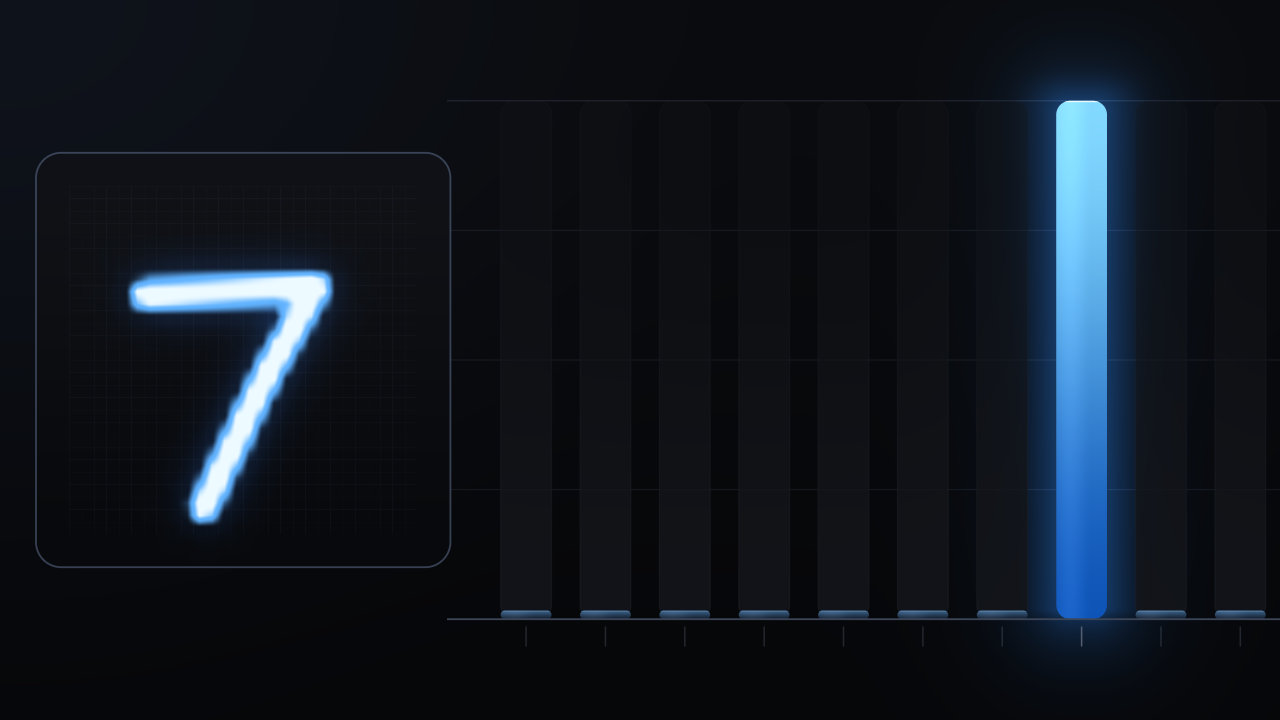
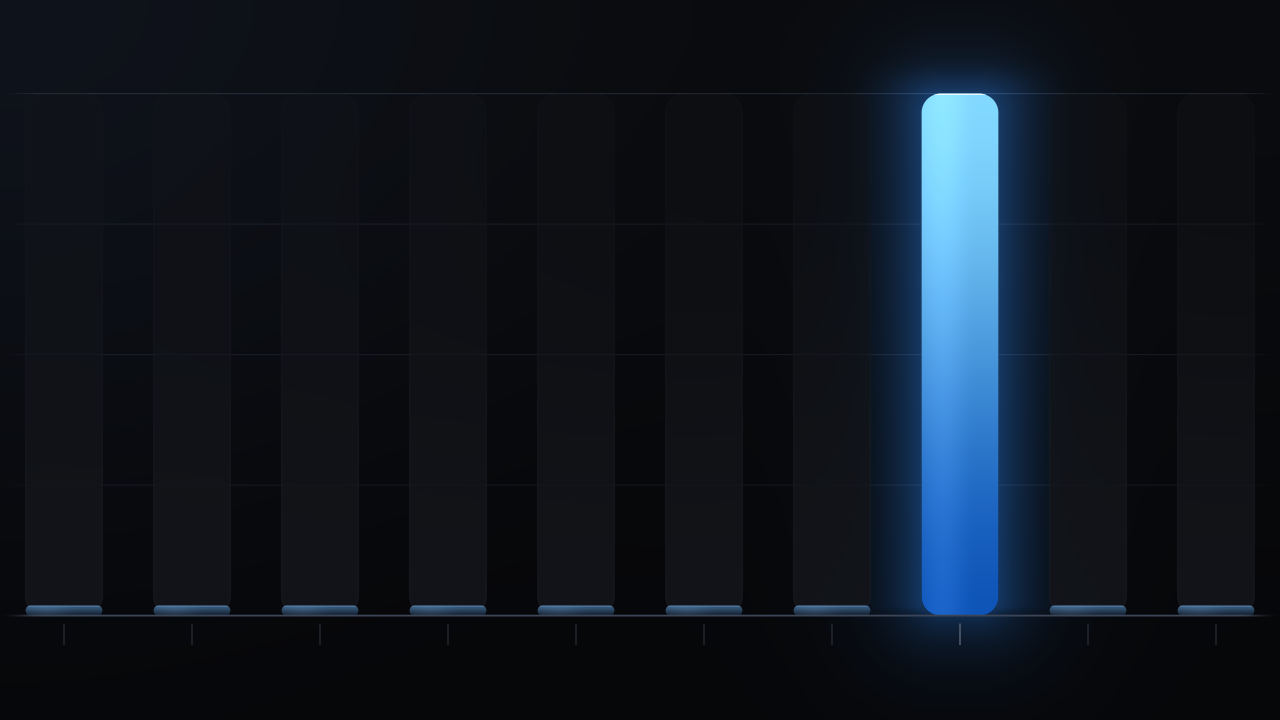
feat(docs): drop the MNIST input preview and widen the chart
The 28x28 preview showed the same digit the drawing surface next to it
already shows, so the visualization is now the probability chart alone.
Class `i` owns the column `[i, i + 1) / 10` of the canvas, which means the
static DOM labels align with a plain ten-column grid instead of mirroring a
layout fraction, and the bars get roughly 60 % more width to breathe. The
rules and the axis run full-bleed and fade out near the canvas edges.

Binding 2 keeps the normalized input bound because `createVisualizer()`
owns that slot; the chart simply no longer samples it.

diff --git a/apps/docs/lib/examples-source.generated.ts b/apps/docs/lib/examples-source.generated.ts
@@ -803,7 +803,7 @@ export const exampleSources = {
       {
         "path": "index.tsx",
         "language": "tsx",
-        "content": "'use client';\n\nimport { useCallback, useEffect, useRef, useState } from 'react';\nimport { useExampleErrorReporter } from '../../lib/example-error-reporter';\nimport { FIXTURE_STROKES, FIXTURE_SURFACE, STROKE_RADIUS } from './fixtures';\nimport { foregroundFromRgba, preprocessDigit } from './preprocess';\nimport { createRenderer, type MnistRenderer, type MnistStatus } from './ort-runtime';\n\nconst STAGE_LABELS: Record<string, string> = {\n  runtime: 'Loading ONNX Runtime Web…',\n  model: 'Fetching the 26 kB model…',\n  session: 'Creating the WebGPU session…',\n  device: 'Adopting the runtime device…',\n  ready: 'Ready',\n};\n\n/** Coalescing delay while the pointer is still down. */\nconst DRAW_DEBOUNCE_MS = 120;\n\nexport function Example() {\n  const reportError = useExampleErrorReporter();\n  const barsCanvasRef = useRef<HTMLCanvasElement>(null);\n  const drawCanvasRef = useRef<HTMLCanvasElement>(null);\n  const rendererRef = useRef<MnistRenderer | undefined>(undefined);\n  const debounceRef = useRef<number>(0);\n  const drawingRef = useRef(false);\n  const lastPointRef = useRef<{ x: number; y: number } | undefined>(undefined);\n  const [status, setStatus] = useState<MnistStatus>({ phase: 'initializing' });\n\n  const context = () => {\n    const canvas = drawCanvasRef.current;\n    return canvas?.getContext('2d', { willReadFrequently: true }) ?? undefined;\n  };\n\n  const paintBackground = useCallback((ctx: CanvasRenderingContext2D) => {\n    ctx.fillStyle = '#000000';\n    ctx.fillRect(0, 0, FIXTURE_SURFACE, FIXTURE_SURFACE);\n    ctx.strokeStyle = '#ffffff';\n    ctx.lineWidth = STROKE_RADIUS * 2;\n    ctx.lineCap = 'round';\n    ctx.lineJoin = 'round';\n  }, []);\n\n  /** Reads the drawing surface and queues one inference. */\n  const submit = useCallback(() => {\n    const ctx = context();\n    const renderer = rendererRef.current;\n    if (!ctx || !renderer) return;\n    const image = ctx.getImageData(0, 0, FIXTURE_SURFACE, FIXTURE_SURFACE);\n    const field = foregroundFromRgba(image.data, FIXTURE_SURFACE, FIXTURE_SURFACE);\n    const pixels = preprocessDigit(field, FIXTURE_SURFACE, FIXTURE_SURFACE);\n    if (!pixels) renderer.clear();\n    else renderer.classify(pixels);\n  }, []);\n\n  const scheduleSubmit = useCallback(() => {\n    if (debounceRef.current) return;\n    debounceRef.current = window.setTimeout(() => {\n      debounceRef.current = 0;\n      submit();\n    }, DRAW_DEBOUNCE_MS);\n  }, [submit]);\n\n  useEffect(() => {\n    const canvas = barsCanvasRef.current;\n    const ctx = context();\n    if (!canvas || !ctx) return;\n\n    paintBackground(ctx);\n    // Seed a stroke so the example shows a real result without interaction.\n    ctx.beginPath();\n    for (const stroke of FIXTURE_STROKES) {\n      stroke.forEach(([x, y], index) => (index === 0 ? ctx.moveTo(x, y) : ctx.lineTo(x, y)));\n    }\n    ctx.stroke();\n\n    const renderer = createRenderer({\n      canvas,\n      onError: reportError,\n      onStatus: (next) => {\n        setStatus(next);\n        if (next.phase === 'ready' && next.runs === 0) submit();\n      },\n    });\n    rendererRef.current = renderer;\n    void renderer.ready.catch(() => {\n      // onError reports initialization failures to the preview host.\n    });\n\n    return () => {\n      if (debounceRef.current) window.clearTimeout(debounceRef.current);\n      debounceRef.current = 0;\n      rendererRef.current = undefined;\n      renderer.dispose();\n    };\n  }, [paintBackground, reportError, submit]);\n\n  const pointerPosition = (event: React.PointerEvent<HTMLCanvasElement>) => {\n    const canvas = event.currentTarget;\n    const rect = canvas.getBoundingClientRect();\n    return {\n      x: ((event.clientX - rect.left) / rect.width) * FIXTURE_SURFACE,\n      y: ((event.clientY - rect.top) / rect.height) * FIXTURE_SURFACE,\n    };\n  };\n\n  const onPointerDown = (event: React.PointerEvent<HTMLCanvasElement>) => {\n    const ctx = context();\n    if (!ctx) return;\n    event.currentTarget.setPointerCapture(event.pointerId);\n    drawingRef.current = true;\n    const point = pointerPosition(event);\n    lastPointRef.current = point;\n    // A dot is a valid digit stroke, so draw immediately.\n    ctx.beginPath();\n    ctx.moveTo(point.x, point.y);\n    ctx.lineTo(point.x + 0.01, point.y);\n    ctx.stroke();\n    scheduleSubmit();\n  };\n\n  const onPointerMove = (event: React.PointerEvent<HTMLCanvasElement>) => {\n    if (!drawingRef.current) return;\n    const ctx = context();\n    const previous = lastPointRef.current;\n    if (!ctx || !previous) return;\n    const point = pointerPosition(event);\n    ctx.beginPath();\n    ctx.moveTo(previous.x, previous.y);\n    ctx.lineTo(point.x, point.y);\n    ctx.stroke();\n    lastPointRef.current = point;\n    scheduleSubmit();\n  };\n\n  const endStroke = () => {\n    if (!drawingRef.current) return;\n    drawingRef.current = false;\n    lastPointRef.current = undefined;\n    if (debounceRef.current) window.clearTimeout(debounceRef.current);\n    debounceRef.current = 0;\n    // The final stroke always wins.\n    submit();\n  };\n\n  const clear = () => {\n    const ctx = context();\n    if (ctx) paintBackground(ctx);\n    if (debounceRef.current) window.clearTimeout(debounceRef.current);\n    debounceRef.current = 0;\n    rendererRef.current?.clear();\n  };\n\n  const initializing = status.phase === 'initializing';\n  const blocked = status.phase === 'unsupported' || status.phase === 'error';\n\n  return (\n    <div className=\"flex h-full w-full flex-col gap-4 overflow-auto bg-[#08090c] p-4 text-white/90\">\n      <p className=\"max-w-3xl text-xs leading-relaxed text-white/55\">\n        Draw a digit and classify it with ONNX Runtime Web on WebGPU. vgpu adopts ORT&apos;s device and\n        renders the ten GPU-resident logits through a non-owning zero-copy buffer wrapper. The output\n        is only 40 bytes, so zero-copy is not a meaningful speedup here; this example demonstrates\n        the interop API and lifetime contract. Large or per-frame tensors are where eliminating\n        transfers becomes performance-relevant.\n      </p>\n\n      <div className=\"flex flex-wrap items-start gap-5\">\n        <div className=\"flex flex-col gap-2\">\n          <div className=\"flex items-baseline justify-between gap-3\">\n            <span className=\"font-mono text-[10px] uppercase tracking-[0.14em] text-white/35\">\n              draw\n            </span>\n            <span className=\"font-mono text-[10px] text-white/25\">280 × 280</span>\n          </div>\n          <canvas\n            ref={drawCanvasRef}\n            width={FIXTURE_SURFACE}\n            height={FIXTURE_SURFACE}\n            aria-label=\"Drawing surface for a handwritten digit\"\n            className=\"h-[280px] w-[280px] cursor-crosshair touch-none rounded-xl border border-white/10 bg-black shadow-[inset_0_1px_0_rgba(255,255,255,0.04)] transition-colors hover:border-white/20\"\n            onPointerDown={onPointerDown}\n            onPointerMove={onPointerMove}\n            onPointerUp={endStroke}\n            onPointerCancel={endStroke}\n            onPointerLeave={endStroke}\n          />\n          <button\n            type=\"button\"\n            onClick={clear}\n            className=\"self-start rounded-md border border-white/10 bg-white/[0.03] px-3 py-1 font-mono text-[11px] text-white/60 transition-colors hover:border-white/25 hover:bg-white/10 hover:text-white/90\"\n          >\n            clear\n          </button>\n        </div>\n\n        <div className=\"relative min-w-[320px] flex-1\">\n          <div className=\"mb-2 flex items-baseline justify-between gap-3\">\n            <span className=\"font-mono text-[10px] uppercase tracking-[0.14em] text-white/35\">\n              model input 28 × 28\n            </span>\n            <span className=\"font-mono text-[10px] uppercase tracking-[0.14em] text-white/35\">\n              softmax(logits) · probability\n            </span>\n          </div>\n          <canvas\n            ref={barsCanvasRef}\n            aria-label=\"Class probabilities rendered from the model's GPU-resident logits\"\n            className=\"block h-[280px] w-full rounded-xl border border-white/10\"\n          />\n          {/* Static labels: reading the winning class from the GPU would require a\n              readback, which this example deliberately avoids. The 38% padding\n              mirrors `SPLIT` in visualize.wgsl, so each digit sits under its bar. */}\n          <div className=\"grid grid-cols-10 pl-[38%] pt-1 text-center font-mono text-[11px] tabular-nums text-white/40\">\n            {Array.from({ length: 10 }, (_, digit) => (\n              <span key={digit}>{digit}</span>\n            ))}\n          </div>\n\n          {initializing && (\n            <div className=\"pointer-events-none absolute inset-0 flex items-center justify-center\">\n              <p className=\"rounded-lg border border-white/10 bg-black/70 px-3 py-2 font-mono text-xs text-white/70 backdrop-blur-sm\">\n                {(status.detail && STAGE_LABELS[status.detail]) ?? 'Preparing inference…'}\n              </p>\n            </div>\n          )}\n\n          {blocked && (\n            <div className=\"absolute inset-0 flex items-center justify-center p-4\">\n              <div className=\"max-w-md rounded-lg border border-white/10 bg-black/85 p-3 text-sm backdrop-blur-sm\">\n                <h2 className=\"mb-1 font-medium\">\n                  {status.phase === 'unsupported' ? 'WebGPU inference is required' : 'Inference failed'}\n                </h2>\n                <p className=\"mb-2 text-white/70\">\n                  This example runs ONNX Runtime Web on the WebGPU execution provider so vgpu can\n                  share its device. It does not fall back to CPU inference.\n                </p>\n                {status.detail && <p className=\"font-mono text-xs text-white/60\">{status.detail}</p>}\n              </div>\n            </div>\n          )}\n        </div>\n      </div>\n\n      <p className=\"flex flex-wrap items-center gap-x-2 gap-y-1 font-mono text-[11px] text-white/35\">\n        <span\n          aria-hidden\n          className={`inline-block h-1.5 w-1.5 rounded-full ${\n            status.phase === 'classifying'\n              ? 'bg-[#3b9eff] shadow-[0_0_6px_rgba(59,158,255,0.9)]'\n              : status.phase === 'ready'\n                ? 'bg-[#46a758]'\n                : 'bg-white/25'\n          }`}\n        />\n        <span className=\"text-white/55\">\n          {status.phase === 'classifying' ? 'running inference…' : `inferences: ${status.runs ?? 0}`}\n        </span>\n        <span className=\"text-white/20\">·</span>\n        <span>40 bytes of logits, softmax in WGSL, no readback</span>\n      </p>\n    </div>\n  );\n}\n"
+        "content": "'use client';\n\nimport { useCallback, useEffect, useRef, useState } from 'react';\nimport { useExampleErrorReporter } from '../../lib/example-error-reporter';\nimport { FIXTURE_STROKES, FIXTURE_SURFACE, STROKE_RADIUS } from './fixtures';\nimport { foregroundFromRgba, preprocessDigit } from './preprocess';\nimport { createRenderer, type MnistRenderer, type MnistStatus } from './ort-runtime';\n\nconst STAGE_LABELS: Record<string, string> = {\n  runtime: 'Loading ONNX Runtime Web…',\n  model: 'Fetching the 26 kB model…',\n  session: 'Creating the WebGPU session…',\n  device: 'Adopting the runtime device…',\n  ready: 'Ready',\n};\n\n/** Coalescing delay while the pointer is still down. */\nconst DRAW_DEBOUNCE_MS = 120;\n\nexport function Example() {\n  const reportError = useExampleErrorReporter();\n  const barsCanvasRef = useRef<HTMLCanvasElement>(null);\n  const drawCanvasRef = useRef<HTMLCanvasElement>(null);\n  const rendererRef = useRef<MnistRenderer | undefined>(undefined);\n  const debounceRef = useRef<number>(0);\n  const drawingRef = useRef(false);\n  const lastPointRef = useRef<{ x: number; y: number } | undefined>(undefined);\n  const [status, setStatus] = useState<MnistStatus>({ phase: 'initializing' });\n\n  const context = () => {\n    const canvas = drawCanvasRef.current;\n    return canvas?.getContext('2d', { willReadFrequently: true }) ?? undefined;\n  };\n\n  const paintBackground = useCallback((ctx: CanvasRenderingContext2D) => {\n    ctx.fillStyle = '#000000';\n    ctx.fillRect(0, 0, FIXTURE_SURFACE, FIXTURE_SURFACE);\n    ctx.strokeStyle = '#ffffff';\n    ctx.lineWidth = STROKE_RADIUS * 2;\n    ctx.lineCap = 'round';\n    ctx.lineJoin = 'round';\n  }, []);\n\n  /** Reads the drawing surface and queues one inference. */\n  const submit = useCallback(() => {\n    const ctx = context();\n    const renderer = rendererRef.current;\n    if (!ctx || !renderer) return;\n    const image = ctx.getImageData(0, 0, FIXTURE_SURFACE, FIXTURE_SURFACE);\n    const field = foregroundFromRgba(image.data, FIXTURE_SURFACE, FIXTURE_SURFACE);\n    const pixels = preprocessDigit(field, FIXTURE_SURFACE, FIXTURE_SURFACE);\n    if (!pixels) renderer.clear();\n    else renderer.classify(pixels);\n  }, []);\n\n  const scheduleSubmit = useCallback(() => {\n    if (debounceRef.current) return;\n    debounceRef.current = window.setTimeout(() => {\n      debounceRef.current = 0;\n      submit();\n    }, DRAW_DEBOUNCE_MS);\n  }, [submit]);\n\n  useEffect(() => {\n    const canvas = barsCanvasRef.current;\n    const ctx = context();\n    if (!canvas || !ctx) return;\n\n    paintBackground(ctx);\n    // Seed a stroke so the example shows a real result without interaction.\n    ctx.beginPath();\n    for (const stroke of FIXTURE_STROKES) {\n      stroke.forEach(([x, y], index) => (index === 0 ? ctx.moveTo(x, y) : ctx.lineTo(x, y)));\n    }\n    ctx.stroke();\n\n    const renderer = createRenderer({\n      canvas,\n      onError: reportError,\n      onStatus: (next) => {\n        setStatus(next);\n        if (next.phase === 'ready' && next.runs === 0) submit();\n      },\n    });\n    rendererRef.current = renderer;\n    void renderer.ready.catch(() => {\n      // onError reports initialization failures to the preview host.\n    });\n\n    return () => {\n      if (debounceRef.current) window.clearTimeout(debounceRef.current);\n      debounceRef.current = 0;\n      rendererRef.current = undefined;\n      renderer.dispose();\n    };\n  }, [paintBackground, reportError, submit]);\n\n  const pointerPosition = (event: React.PointerEvent<HTMLCanvasElement>) => {\n    const canvas = event.currentTarget;\n    const rect = canvas.getBoundingClientRect();\n    return {\n      x: ((event.clientX - rect.left) / rect.width) * FIXTURE_SURFACE,\n      y: ((event.clientY - rect.top) / rect.height) * FIXTURE_SURFACE,\n    };\n  };\n\n  const onPointerDown = (event: React.PointerEvent<HTMLCanvasElement>) => {\n    const ctx = context();\n    if (!ctx) return;\n    event.currentTarget.setPointerCapture(event.pointerId);\n    drawingRef.current = true;\n    const point = pointerPosition(event);\n    lastPointRef.current = point;\n    // A dot is a valid digit stroke, so draw immediately.\n    ctx.beginPath();\n    ctx.moveTo(point.x, point.y);\n    ctx.lineTo(point.x + 0.01, point.y);\n    ctx.stroke();\n    scheduleSubmit();\n  };\n\n  const onPointerMove = (event: React.PointerEvent<HTMLCanvasElement>) => {\n    if (!drawingRef.current) return;\n    const ctx = context();\n    const previous = lastPointRef.current;\n    if (!ctx || !previous) return;\n    const point = pointerPosition(event);\n    ctx.beginPath();\n    ctx.moveTo(previous.x, previous.y);\n    ctx.lineTo(point.x, point.y);\n    ctx.stroke();\n    lastPointRef.current = point;\n    scheduleSubmit();\n  };\n\n  const endStroke = () => {\n    if (!drawingRef.current) return;\n    drawingRef.current = false;\n    lastPointRef.current = undefined;\n    if (debounceRef.current) window.clearTimeout(debounceRef.current);\n    debounceRef.current = 0;\n    // The final stroke always wins.\n    submit();\n  };\n\n  const clear = () => {\n    const ctx = context();\n    if (ctx) paintBackground(ctx);\n    if (debounceRef.current) window.clearTimeout(debounceRef.current);\n    debounceRef.current = 0;\n    rendererRef.current?.clear();\n  };\n\n  const initializing = status.phase === 'initializing';\n  const blocked = status.phase === 'unsupported' || status.phase === 'error';\n\n  return (\n    <div className=\"flex h-full w-full flex-col gap-4 overflow-auto bg-[#08090c] p-4 text-white/90\">\n      <p className=\"max-w-3xl text-xs leading-relaxed text-white/55\">\n        Draw a digit and classify it with ONNX Runtime Web on WebGPU. vgpu adopts ORT&apos;s device and\n        renders the ten GPU-resident logits through a non-owning zero-copy buffer wrapper. The output\n        is only 40 bytes, so zero-copy is not a meaningful speedup here; this example demonstrates\n        the interop API and lifetime contract. Large or per-frame tensors are where eliminating\n        transfers becomes performance-relevant.\n      </p>\n\n      <div className=\"flex flex-wrap items-start gap-5\">\n        <div className=\"flex flex-col gap-2\">\n          <div className=\"flex items-baseline justify-between gap-3\">\n            <span className=\"font-mono text-[10px] uppercase tracking-[0.14em] text-white/35\">\n              draw\n            </span>\n            <span className=\"font-mono text-[10px] text-white/25\">280 × 280</span>\n          </div>\n          <canvas\n            ref={drawCanvasRef}\n            width={FIXTURE_SURFACE}\n            height={FIXTURE_SURFACE}\n            aria-label=\"Drawing surface for a handwritten digit\"\n            className=\"h-[280px] w-[280px] cursor-crosshair touch-none rounded-xl border border-white/10 bg-black shadow-[inset_0_1px_0_rgba(255,255,255,0.04)] transition-colors hover:border-white/20\"\n            onPointerDown={onPointerDown}\n            onPointerMove={onPointerMove}\n            onPointerUp={endStroke}\n            onPointerCancel={endStroke}\n            onPointerLeave={endStroke}\n          />\n          <button\n            type=\"button\"\n            onClick={clear}\n            className=\"self-start rounded-md border border-white/10 bg-white/[0.03] px-3 py-1 font-mono text-[11px] text-white/60 transition-colors hover:border-white/25 hover:bg-white/10 hover:text-white/90\"\n          >\n            clear\n          </button>\n        </div>\n\n        <div className=\"relative min-w-[360px] flex-1\">\n          <div className=\"flex items-baseline justify-between gap-3\">\n            <span className=\"font-mono text-[10px] uppercase tracking-[0.14em] text-white/35\">\n              probability\n            </span>\n            <span className=\"font-mono text-[10px] text-white/25\">softmax(logits)</span>\n          </div>\n          <canvas\n            ref={barsCanvasRef}\n            aria-label=\"Class probabilities rendered from the model's GPU-resident logits\"\n            className=\"mt-2 block h-[280px] w-full rounded-xl border border-white/10 bg-black shadow-[inset_0_1px_0_rgba(255,255,255,0.04)]\"\n          />\n          {/* Static labels: reading the winning class from the GPU would require a\n              readback, which this example deliberately avoids. The chart uses the\n              full canvas width, one tenth per class, so this ten-column grid puts\n              every digit under its own bar. */}\n          <div className=\"grid grid-cols-10 pt-1.5 text-center font-mono text-[11px] tabular-nums text-white/40\">\n            {Array.from({ length: 10 }, (_, digit) => (\n              <span key={digit}>{digit}</span>\n            ))}\n          </div>\n\n          {initializing && (\n            <div className=\"pointer-events-none absolute inset-0 flex items-center justify-center\">\n              <p className=\"rounded-lg border border-white/10 bg-black/70 px-3 py-2 font-mono text-xs text-white/70 backdrop-blur-sm\">\n                {(status.detail && STAGE_LABELS[status.detail]) ?? 'Preparing inference…'}\n              </p>\n            </div>\n          )}\n\n          {blocked && (\n            <div className=\"absolute inset-0 flex items-center justify-center p-4\">\n              <div className=\"max-w-md rounded-lg border border-white/10 bg-black/85 p-3 text-sm backdrop-blur-sm\">\n                <h2 className=\"mb-1 font-medium\">\n                  {status.phase === 'unsupported' ? 'WebGPU inference is required' : 'Inference failed'}\n                </h2>\n                <p className=\"mb-2 text-white/70\">\n                  This example runs ONNX Runtime Web on the WebGPU execution provider so vgpu can\n                  share its device. It does not fall back to CPU inference.\n                </p>\n                {status.detail && <p className=\"font-mono text-xs text-white/60\">{status.detail}</p>}\n              </div>\n            </div>\n          )}\n        </div>\n      </div>\n\n      <p className=\"flex flex-wrap items-center gap-x-2 gap-y-1 font-mono text-[11px] text-white/35\">\n        <span\n          aria-hidden\n          className={`inline-block h-1.5 w-1.5 rounded-full ${\n            status.phase === 'classifying'\n              ? 'bg-[#3b9eff] shadow-[0_0_6px_rgba(59,158,255,0.9)]'\n              : status.phase === 'ready'\n                ? 'bg-[#46a758]'\n                : 'bg-white/25'\n          }`}\n        />\n        <span className=\"text-white/55\">\n          {status.phase === 'classifying' ? 'running inference…' : `inferences: ${status.runs ?? 0}`}\n        </span>\n        <span className=\"text-white/20\">·</span>\n        <span>40 bytes of logits, softmax in WGSL, no readback</span>\n      </p>\n    </div>\n  );\n}\n"
       },
       {
         "path": "renderer.ts",
@@ -828,7 +828,7 @@ export const exampleSources = {
       {
         "path": "visualize.wgsl",
         "language": "wgsl",
-        "content": "// Reads the ten GPU-resident logits ONNX Runtime Web produced and draws the\n// class probabilities, plus a preview of the normalized 28x28 input.\n//\n// The softmax is computed here, so the 40 bytes of output are never copied or\n// read back to the CPU. Class labels are static DOM text next to the canvas.\n//\n// Everything is laid out in framebuffer pixels and antialiased with signed\n// distance fields, so rounded corners, hairlines and glows keep their shape at\n// any canvas aspect ratio. The only fraction of the *width* used for layout is\n// `SPLIT`, which the static DOM label row mirrors so the digits stay under the\n// bars.\nstruct Uniforms {\n  resolution: vec2f,\n  /// 1.0 once a real inference result is bound, 0.0 for the idle state.\n  has_result: f32,\n  /// Side length of the input preview in texels (28).\n  input_size: f32,\n};\n@group(0) @binding(0) var<uniform> uniforms: Uniforms;\n@group(0) @binding(1) var<storage, read> logits: array<f32>;\n@group(0) @binding(2) var<storage, read> digit: array<f32>;\n\nconst CLASSES: u32 = 10u;\n\n/// Where the probability chart starts, as a fraction of the width. The static\n/// DOM class labels are padded by the same fraction (`pl-[38%]`).\nconst SPLIT: f32 = 0.38;\n/// Chart band, as fractions of the height: 1.0 probability and the axis.\nconst CHART_TOP: f32 = 0.14;\nconst CHART_BASE: f32 = 0.86;\n/// Every class stays visible even at a probability of ~0, as a small nub.\nconst MIN_BAR: f32 = 0.012;\n\nconst BG_TOP: vec3f = vec3f(0.038, 0.043, 0.055);\nconst BG_BOTTOM: vec3f = vec3f(0.024, 0.027, 0.036);\nconst AMBIENT: vec3f = vec3f(0.018, 0.028, 0.048);\nconst TRACK: vec3f = vec3f(0.072, 0.080, 0.099);\nconst TRACK_EDGE: vec3f = vec3f(0.125, 0.140, 0.170);\nconst RULE: vec3f = vec3f(0.055, 0.065, 0.082);\nconst AXIS: vec3f = vec3f(0.235, 0.270, 0.340);\n/// Winning class: the docs' blue accent taken up to a bright cyan tip.\nconst WIN_LOW: vec3f = vec3f(0.055, 0.330, 0.720);\nconst WIN_HIGH: vec3f = vec3f(0.510, 0.850, 1.000);\nconst WIN_TIP: vec3f = vec3f(0.930, 0.980, 1.000);\nconst WIN_GLOW: vec3f = vec3f(0.120, 0.420, 0.780);\n/// Runner-ups: the same hue, desaturated so the argmax reads instantly.\nconst REST_LOW: vec3f = vec3f(0.085, 0.135, 0.200);\nconst REST_HIGH: vec3f = vec3f(0.220, 0.360, 0.500);\nconst REST_TIP: vec3f = vec3f(0.400, 0.560, 0.720);\n/// Input preview.\nconst PANEL_TOP: vec3f = vec3f(0.060, 0.068, 0.086);\nconst PANEL_BOTTOM: vec3f = vec3f(0.030, 0.035, 0.046);\nconst PANEL_FRAME: vec3f = vec3f(0.400, 0.470, 0.600);\nconst INK_HALO: vec3f = vec3f(0.100, 0.300, 0.620);\nconst INK_BODY: vec3f = vec3f(0.380, 0.700, 1.000);\nconst INK_CORE: vec3f = vec3f(0.930, 0.980, 1.000);\nconst GRID: vec3f = vec3f(0.020, 0.024, 0.032);\n\n/// Numerically stable softmax over the ten logits.\nfn probability(index: u32) -> f32 {\n  var maximum = logits[0];\n  for (var i = 1u; i < CLASSES; i = i + 1u) {\n    maximum = max(maximum, logits[i]);\n  }\n  var total = 0.0;\n  for (var i = 0u; i < CLASSES; i = i + 1u) {\n    total = total + exp(logits[i] - maximum);\n  }\n  return exp(logits[index] - maximum) / total;\n}\n\nfn best_class() -> u32 {\n  var best = 0u;\n  for (var i = 1u; i < CLASSES; i = i + 1u) {\n    if (logits[i] > logits[best]) { best = i; }\n  }\n  return best;\n}\n\n/// Signed distance to a rounded box, in the same units as `p`.\nfn sd_round_box(p: vec2f, half_size: vec2f, radius: f32) -> f32 {\n  let r = min(radius, min(half_size.x, half_size.y));\n  let q = abs(p) - half_size + vec2f(r);\n  return length(max(q, vec2f(0.0))) + min(max(q.x, q.y), 0.0) - r;\n}\n\n/// One-pixel analytic coverage for a distance expressed in pixels.\nfn coverage(distance_px: f32) -> f32 {\n  return clamp(0.5 - distance_px, 0.0, 1.0);\n}\n\nfn digit_at(cell: vec2i) -> f32 {\n  let size = i32(uniforms.input_size);\n  let c = clamp(cell, vec2i(0), vec2i(size - 1));\n  return digit[c.y * size + c.x];\n}\n\n/// Bilinear tap of the input tensor; `p` is normalized over the preview box.\nfn sample_digit(p: vec2f) -> f32 {\n  let grid = p * uniforms.input_size - 0.5;\n  let base = floor(grid);\n  let frac = grid - base;\n  let cell = vec2i(base);\n  let top = mix(digit_at(cell), digit_at(cell + vec2i(1, 0)), frac.x);\n  let bottom = mix(digit_at(cell + vec2i(0, 1)), digit_at(cell + vec2i(1, 1)), frac.x);\n  return mix(top, bottom, frac.y);\n}\n\n/// Two rings of taps around `p`, used as a cheap bloom around the strokes.\nfn digit_halo(p: vec2f) -> f32 {\n  let near = 1.7 / uniforms.input_size;\n  let far = 3.6 / uniforms.input_size;\n  var total = 0.0;\n  for (var i = 0u; i < 8u; i = i + 1u) {\n    let angle = f32(i) * 0.7853981634;\n    let dir = vec2f(cos(angle), sin(angle));\n    total = total + sample_digit(p + dir * near) * 0.72 + sample_digit(p + dir * far) * 0.28;\n  }\n  return total / 8.0;\n}\n\n@fragment\nfn fs_main(@builtin(position) position: vec4f) -> @location(0) vec4f {\n  let resolution = max(uniforms.resolution, vec2f(1.0));\n  let px = position.xy;\n  let height = resolution.y;\n  let has_result = uniforms.has_result > 0.5;\n\n  // Backdrop: a vertical wash plus a soft light from the top-left corner.\n  var color = mix(BG_TOP, BG_BOTTOM, smoothstep(0.0, 1.0, px.y / height));\n  color = color + AMBIENT * (1.0 - smoothstep(0.0, 1.15, length(px / height)));\n\n  // ---------------------------------------------------------------- chart ---\n  let chart_x = SPLIT * resolution.x;\n  let column_w = (resolution.x - chart_x) / f32(CLASSES);\n  let top = CHART_TOP * height;\n  let base = CHART_BASE * height;\n  let span = base - top;\n  let bar_half = min(column_w * 0.32, 0.075 * height);\n  let bar_radius = bar_half * 0.55;\n  let in_chart = select(0.0, 1.0, px.x > chart_x - column_w * 0.5);\n  let winner = best_class();\n\n  // Halo and column wash behind the winning bar, drawn before the bars so it\n  // reads as light spilling out of the argmax rather than a border.\n  if (has_result) {\n    let winner_x = chart_x + (f32(winner) + 0.5) * column_w;\n    let winner_h = max(probability(winner) * span, MIN_BAR * height);\n    let to_winner = sd_round_box(\n      px - vec2f(winner_x, base - winner_h * 0.5),\n      vec2f(bar_half, winner_h * 0.5),\n      bar_radius,\n    );\n    color = color + WIN_GLOW * 0.34 * exp(-max(to_winner, 0.0) / (0.05 * height));\n    let band_x = 1.0 - smoothstep(column_w * 0.3, column_w * 0.95, abs(px.x - winner_x));\n    let band_y = smoothstep(0.0, 0.05 * height, px.y - (top - 0.05 * height))\n      * (1.0 - smoothstep(base - 0.015 * height, base, px.y));\n    color = color + WIN_GLOW * 0.10 * band_x * band_y;\n  }\n\n  // Reference rules at 25 / 50 / 75 / 100 % of probability.\n  for (var k = 1u; k <= 4u; k = k + 1u) {\n    let y = base - span * f32(k) * 0.25;\n    let weight = select(1.0, 1.8, k == 4u);\n    color = color + RULE * weight * coverage(abs(px.y - y) - 0.5) * in_chart;\n  }\n\n  // Bars: an unfilled track per class, the softmax fill on top of it.\n  let bar_center_x = chart_x + (floor(clamp((px.x - chart_x) / column_w, 0.0, f32(CLASSES) - 1.0)) + 0.5) * column_w;\n  let index = u32(clamp((px.x - chart_x) / column_w, 0.0, f32(CLASSES) - 1.0));\n  let track = sd_round_box(px - vec2f(bar_center_x, (top + base) * 0.5), vec2f(bar_half, span * 0.5), bar_radius);\n  // The track fades towards 1.0 probability so the chart never looks like a row\n  // of solid slabs.\n  let track_fade = 0.35 + 0.65 * smoothstep(top, base, px.y);\n  color = mix(color, TRACK, coverage(track) * 0.92 * track_fade * in_chart);\n  color = mix(color, TRACK_EDGE, coverage(abs(track) - 0.6) * 0.4 * track_fade * in_chart);\n\n  if (has_result) {\n    let is_winner = index == winner;\n    let bar_h = max(probability(index) * span, MIN_BAR * height);\n    let bar = sd_round_box(px - vec2f(bar_center_x, base - bar_h * 0.5), vec2f(bar_half, bar_h * 0.5), bar_radius);\n    let along = clamp((base - px.y) / max(bar_h, 1.0), 0.0, 1.0);\n    var fill = mix(\n      select(REST_LOW, WIN_LOW, is_winner),\n      select(REST_HIGH, WIN_HIGH, is_winner),\n      smoothstep(0.0, 1.0, along) * 0.8 + along * 0.2,\n    );\n    // Glass sheen down the left flank of every bar.\n    fill = fill + vec3f(0.05, 0.06, 0.07)\n      * (1.0 - smoothstep(0.0, bar_half * 0.9, abs(px.x - (bar_center_x - bar_half * 0.45))));\n    color = mix(color, fill, coverage(bar) * in_chart);\n    // Bright tip so short bars still have a readable edge.\n    let tip = coverage(bar) * coverage(abs(px.y - (base - bar_h)) - 1.4);\n    color = mix(\n      color,\n      select(REST_TIP, WIN_TIP, is_winner),\n      tip * select(0.45, 0.95, is_winner) * in_chart,\n    );\n  }\n\n  // Axis and one tick per class, pointing at the static DOM label below. The\n  // winner's tick is brighter, which keeps the highlight in the shader.\n  color = mix(color, AXIS, coverage(abs(px.y - base) - 0.9) * in_chart);\n  let tick = sd_round_box(px - vec2f(bar_center_x, base + 0.024 * height), vec2f(0.75, 0.014 * height), 0.75);\n  let tick_weight = select(0.35, select(0.35, 1.0, index == winner), has_result);\n  color = mix(color, AXIS + vec3f(0.10), coverage(tick) * tick_weight * in_chart);\n\n  // -------------------------------------------------------- input preview ---\n  let left_w = SPLIT * resolution.x;\n  let side = min(left_w - 0.10 * height, 0.82 * height);\n  let panel_center = vec2f(left_w * 0.5, height * 0.5);\n  let panel_half = vec2f(side * 0.5);\n  let panel_d = sd_round_box(px - panel_center, panel_half, 0.035 * height);\n  let panel_cover = coverage(panel_d);\n  if (panel_cover > 0.0) {\n    let local = (px - (panel_center - panel_half)) / max(side, 1.0);\n    var panel = mix(PANEL_TOP, PANEL_BOTTOM, smoothstep(0.0, 1.0, local.y));\n    let inset = 0.08;\n    let uv = (local - inset) / (1.0 - 2.0 * inset);\n    let inside = select(0.0, 1.0, uv.x > 0.0 && uv.x < 1.0 && uv.y > 0.0 && uv.y < 1.0);\n    let ink = sample_digit(uv);\n    panel = panel + INK_HALO * digit_halo(uv) * 0.6;\n    // The 28x28 tensor lattice, only where there is no ink to muddy.\n    let cell_px = side * (1.0 - 2.0 * inset) / uniforms.input_size;\n    let edge = min(fract(uv.x * uniforms.input_size), fract(uv.y * uniforms.input_size)) * cell_px;\n    panel = panel + GRID * (1.0 - smoothstep(0.0, 1.3, edge)) * (1.0 - ink) * inside;\n    panel = mix(panel, INK_BODY, smoothstep(0.04, 0.55, ink));\n    panel = mix(panel, INK_CORE, smoothstep(0.55, 0.92, ink));\n    color = mix(color, panel, panel_cover);\n  }\n  color = mix(color, PANEL_FRAME, coverage(abs(panel_d) - 0.9) * 0.5);\n\n  return vec4f(color, 1.0);\n}\n"
+        "content": "// Reads the ten GPU-resident logits ONNX Runtime Web produced and draws the\n// class probabilities.\n//\n// The softmax is computed here, so the 40 bytes of output are never copied or\n// read back to the CPU. Class labels are static DOM text below the canvas.\n//\n// Everything is laid out in framebuffer pixels and antialiased with signed\n// distance fields, so rounded corners, hairlines and glows keep their shape at\n// any canvas aspect ratio. The chart uses the full width: class `i` owns the\n// column `[i, i + 1) / 10`, which a plain ten-column DOM grid mirrors exactly,\n// so every label sits under its own bar with no magic padding.\nstruct Uniforms {\n  resolution: vec2f,\n  /// 1.0 once a real inference result is bound, 0.0 for the idle state.\n  has_result: f32,\n  /// Side length of the model input in texels (28). Kept for the pipeline's\n  /// uniform layout; the chart itself needs no input geometry.\n  input_size: f32,\n};\n@group(0) @binding(0) var<uniform> uniforms: Uniforms;\n@group(0) @binding(1) var<storage, read> logits: array<f32>;\n/// The normalized 28x28 input stays bound: `createVisualizer().render()` owns\n/// this slot and the drawing surface next to the canvas already shows the ink,\n/// so the chart deliberately does not draw the tensor a second time.\n@group(0) @binding(2) var<storage, read> digit: array<f32>;\n\nconst CLASSES: u32 = 10u;\n\n/// Chart band, as fractions of the height: 1.0 probability and the axis.\nconst CHART_TOP: f32 = 0.13;\nconst CHART_BASE: f32 = 0.855;\n/// Every class stays visible even at a probability of ~0, as a small nub.\nconst MIN_BAR: f32 = 0.014;\n\nconst BG_TOP: vec3f = vec3f(0.038, 0.043, 0.055);\nconst BG_BOTTOM: vec3f = vec3f(0.024, 0.027, 0.036);\nconst AMBIENT: vec3f = vec3f(0.018, 0.028, 0.048);\nconst TRACK: vec3f = vec3f(0.072, 0.080, 0.099);\nconst TRACK_EDGE: vec3f = vec3f(0.125, 0.140, 0.170);\nconst RULE: vec3f = vec3f(0.055, 0.065, 0.082);\nconst AXIS: vec3f = vec3f(0.235, 0.270, 0.340);\n/// Winning class: the docs' blue accent taken up to a bright cyan tip.\nconst WIN_LOW: vec3f = vec3f(0.055, 0.330, 0.720);\nconst WIN_HIGH: vec3f = vec3f(0.510, 0.850, 1.000);\nconst WIN_TIP: vec3f = vec3f(0.930, 0.980, 1.000);\nconst WIN_GLOW: vec3f = vec3f(0.120, 0.420, 0.780);\n/// Runner-ups: the same hue, desaturated so the argmax reads instantly.\nconst REST_LOW: vec3f = vec3f(0.085, 0.135, 0.200);\nconst REST_HIGH: vec3f = vec3f(0.220, 0.360, 0.500);\nconst REST_TIP: vec3f = vec3f(0.400, 0.560, 0.720);\n\n/// Numerically stable softmax over the ten logits.\nfn probability(index: u32) -> f32 {\n  var maximum = logits[0];\n  for (var i = 1u; i < CLASSES; i = i + 1u) {\n    maximum = max(maximum, logits[i]);\n  }\n  var total = 0.0;\n  for (var i = 0u; i < CLASSES; i = i + 1u) {\n    total = total + exp(logits[i] - maximum);\n  }\n  return exp(logits[index] - maximum) / total;\n}\n\nfn best_class() -> u32 {\n  var best = 0u;\n  for (var i = 1u; i < CLASSES; i = i + 1u) {\n    if (logits[i] > logits[best]) { best = i; }\n  }\n  return best;\n}\n\n/// Signed distance to a rounded box, in the same units as `p`.\nfn sd_round_box(p: vec2f, half_size: vec2f, radius: f32) -> f32 {\n  let r = min(radius, min(half_size.x, half_size.y));\n  let q = abs(p) - half_size + vec2f(r);\n  return length(max(q, vec2f(0.0))) + min(max(q.x, q.y), 0.0) - r;\n}\n\n/// One-pixel analytic coverage for a distance expressed in pixels.\nfn coverage(distance_px: f32) -> f32 {\n  return clamp(0.5 - distance_px, 0.0, 1.0);\n}\n\n@fragment\nfn fs_main(@builtin(position) position: vec4f) -> @location(0) vec4f {\n  let resolution = max(uniforms.resolution, vec2f(1.0));\n  let px = position.xy;\n  let width = resolution.x;\n  let height = resolution.y;\n  let has_result = uniforms.has_result > 0.5;\n\n  // Backdrop: a vertical wash plus a soft light from the top-left corner.\n  var color = mix(BG_TOP, BG_BOTTOM, smoothstep(0.0, 1.0, px.y / height));\n  color = color + AMBIENT * (1.0 - smoothstep(0.0, 1.15, length(px / height)));\n\n  // ---------------------------------------------------------------- chart ---\n  let column_w = width / f32(CLASSES);\n  let top = CHART_TOP * height;\n  let base = CHART_BASE * height;\n  let span = base - top;\n  let bar_half = min(column_w * 0.30, 0.075 * height);\n  let bar_radius = bar_half * 0.5;\n  // Full-bleed rules and axis, faded near the canvas edges so the hairlines\n  // never end in a hard stub against the border.\n  let edge_fade = smoothstep(0.0, 0.035 * width, min(px.x, width - px.x));\n  let winner = best_class();\n\n  // Halo and column wash behind the winning bar, drawn before the bars so it\n  // reads as light spilling out of the argmax rather than a border.\n  if (has_result) {\n    let winner_x = (f32(winner) + 0.5) * column_w;\n    let winner_h = max(probability(winner) * span, MIN_BAR * height);\n    let to_winner = sd_round_box(\n      px - vec2f(winner_x, base - winner_h * 0.5),\n      vec2f(bar_half, winner_h * 0.5),\n      bar_radius,\n    );\n    color = color + WIN_GLOW * 0.34 * exp(-max(to_winner, 0.0) / (0.05 * height));\n    let band_x = 1.0 - smoothstep(column_w * 0.28, column_w * 0.9, abs(px.x - winner_x));\n    let band_y = smoothstep(0.0, 0.05 * height, px.y - (top - 0.05 * height))\n      * (1.0 - smoothstep(base - 0.015 * height, base, px.y));\n    color = color + WIN_GLOW * 0.10 * band_x * band_y;\n  }\n\n  // Reference rules at 25 / 50 / 75 / 100 % of probability.\n  for (var k = 1u; k <= 4u; k = k + 1u) {\n    let y = base - span * f32(k) * 0.25;\n    let weight = select(1.0, 1.8, k == 4u);\n    color = color + RULE * weight * coverage(abs(px.y - y) - 0.5) * edge_fade;\n  }\n\n  // Bars: an unfilled track per class, the softmax fill on top of it.\n  let index = u32(clamp(px.x / column_w, 0.0, f32(CLASSES) - 1.0));\n  let bar_center_x = (f32(index) + 0.5) * column_w;\n  let track = sd_round_box(px - vec2f(bar_center_x, (top + base) * 0.5), vec2f(bar_half, span * 0.5), bar_radius);\n  // The track fades towards 1.0 probability so the chart never looks like a row\n  // of solid slabs.\n  let track_fade = 0.35 + 0.65 * smoothstep(top, base, px.y);\n  color = mix(color, TRACK, coverage(track) * 0.92 * track_fade);\n  color = mix(color, TRACK_EDGE, coverage(abs(track) - 0.6) * 0.4 * track_fade);\n\n  if (has_result) {\n    let is_winner = index == winner;\n    let bar_h = max(probability(index) * span, MIN_BAR * height);\n    let bar = sd_round_box(px - vec2f(bar_center_x, base - bar_h * 0.5), vec2f(bar_half, bar_h * 0.5), bar_radius);\n    let along = clamp((base - px.y) / max(bar_h, 1.0), 0.0, 1.0);\n    var fill = mix(\n      select(REST_LOW, WIN_LOW, is_winner),\n      select(REST_HIGH, WIN_HIGH, is_winner),\n      smoothstep(0.0, 1.0, along) * 0.8 + along * 0.2,\n    );\n    // Glass sheen down the left flank of every bar.\n    fill = fill + vec3f(0.05, 0.06, 0.07)\n      * (1.0 - smoothstep(0.0, bar_half * 0.9, abs(px.x - (bar_center_x - bar_half * 0.45))));\n    color = mix(color, fill, coverage(bar));\n    // Bright tip so short bars still have a readable edge.\n    let tip = coverage(bar) * coverage(abs(px.y - (base - bar_h)) - 1.4);\n    color = mix(color, select(REST_TIP, WIN_TIP, is_winner), tip * select(0.45, 0.95, is_winner));\n  }\n\n  // Axis and one tick per class, pointing at the static DOM label below. The\n  // winner's tick is brighter, which keeps the highlight in the shader.\n  color = mix(color, AXIS, coverage(abs(px.y - base) - 0.9) * edge_fade);\n  let tick = sd_round_box(px - vec2f(bar_center_x, base + 0.026 * height), vec2f(0.75, 0.015 * height), 0.75);\n  let tick_weight = select(0.35, select(0.35, 1.0, index == winner), has_result);\n  color = mix(color, AXIS + vec3f(0.10), coverage(tick) * tick_weight);\n\n  return vec4f(color, 1.0);\n}\n"
       }
     ]
   }

diff --git a/apps/docs/examples/mnist-classifier/index.tsx b/apps/docs/examples/mnist-classifier/index.tsx
@@ -193,24 +193,23 @@ export function Example() {
           </button>
         </div>
 
-        <div className="relative min-w-[320px] flex-1">
-          <div className="mb-2 flex items-baseline justify-between gap-3">
+        <div className="relative min-w-[360px] flex-1">
+          <div className="flex items-baseline justify-between gap-3">
             <span className="font-mono text-[10px] uppercase tracking-[0.14em] text-white/35">
-              model input 28 × 28
+              probability
             </span>
-            <span className="font-mono text-[10px] uppercase tracking-[0.14em] text-white/35">
-              softmax(logits) · probability
-            </span>
+            <span className="font-mono text-[10px] text-white/25">softmax(logits)</span>
           </div>
           <canvas
             ref={barsCanvasRef}
             aria-label="Class probabilities rendered from the model's GPU-resident logits"
-            className="block h-[280px] w-full rounded-xl border border-white/10"
+            className="mt-2 block h-[280px] w-full rounded-xl border border-white/10 bg-black shadow-[inset_0_1px_0_rgba(255,255,255,0.04)]"
           />
           {/* Static labels: reading the winning class from the GPU would require a
-              readback, which this example deliberately avoids. The 38% padding
-              mirrors `SPLIT` in visualize.wgsl, so each digit sits under its bar. */}
-          <div className="grid grid-cols-10 pl-[38%] pt-1 text-center font-mono text-[11px] tabular-nums text-white/40">
+              readback, which this example deliberately avoids. The chart uses the
+              full canvas width, one tenth per class, so this ten-column grid puts
+              every digit under its own bar. */}
+          <div className="grid grid-cols-10 pt-1.5 text-center font-mono text-[11px] tabular-nums text-white/40">
             {Array.from({ length: 10 }, (_, digit) => (
               <span key={digit}>{digit}</span>
             ))}
